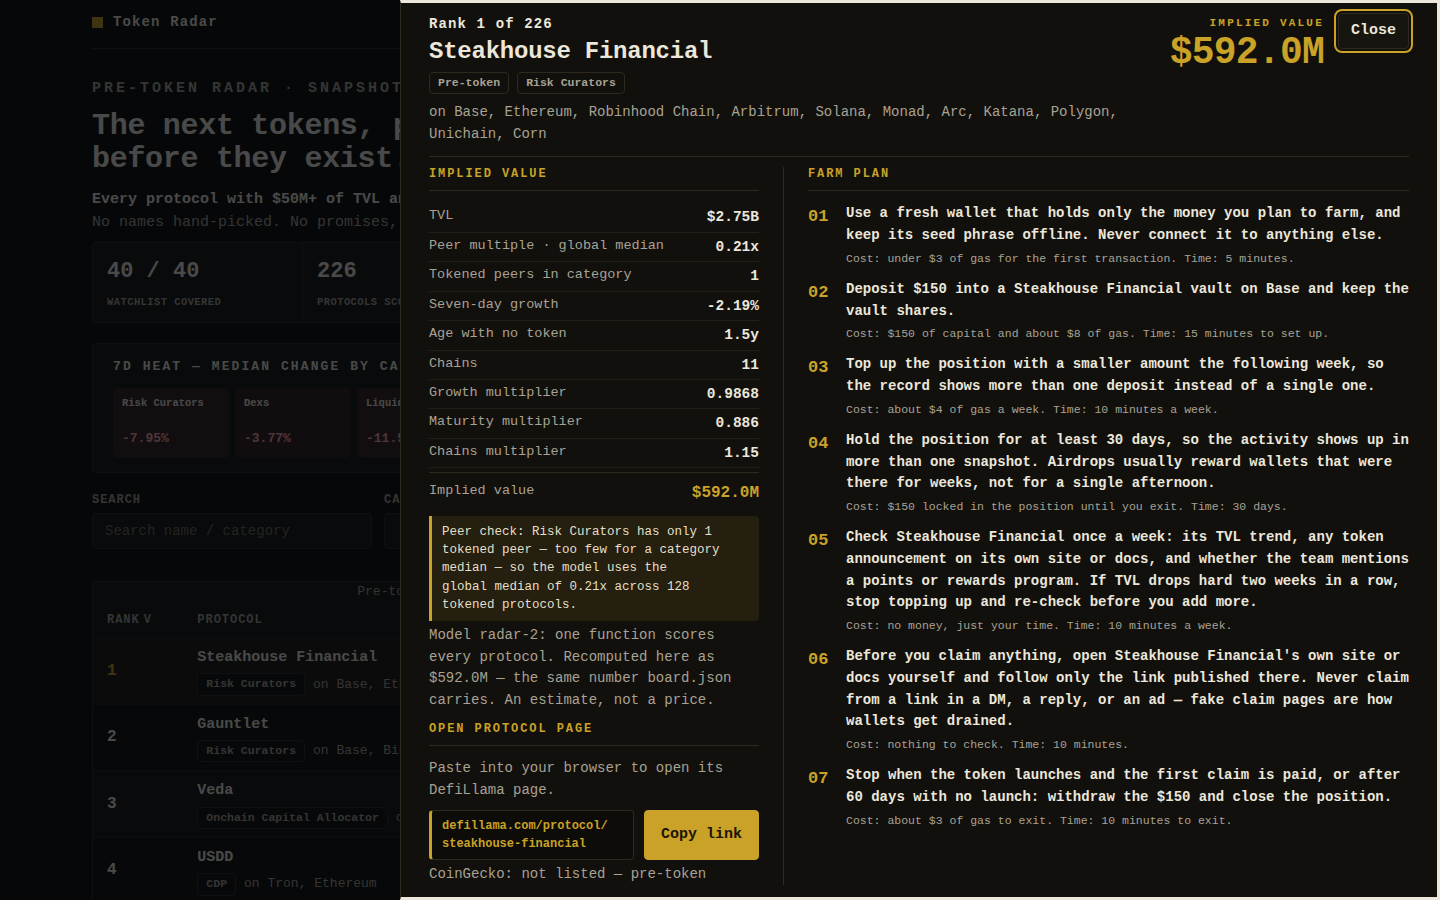
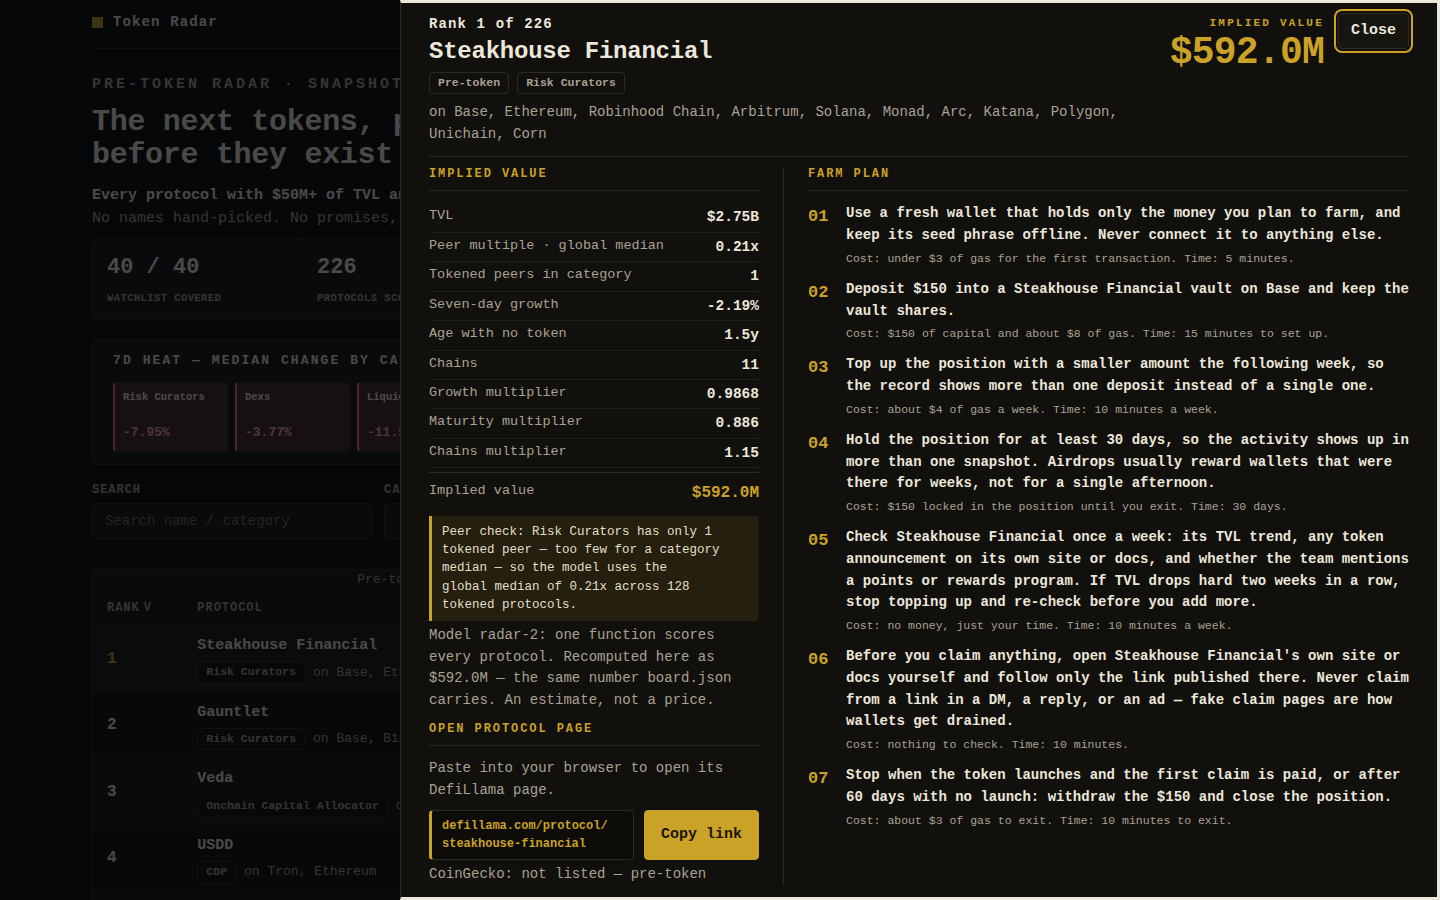
Auto-improvement round 1: heat tint reads at a glance, shot 1 fold lands on a clean row
- Heat strip: tint alpha 0.08-0.22 (was capped 0.14) + 2px direction
  edge per cell, so red/green read at a glance; light values still legible.
- Reclaimed 12px above the fold (hero 16->12px top pad, heat panel
  14->12px, controls 12->10px): row 4 (USDD) now fully in frame at
  1440x900 (measured bottom 892px vs 904px before).
- Model values, farm steps untouched; board.json byte-identical.
  Rubric after round 1: hierarchy 8, accent 9, heat 9, drawer 9,
  panels 8, framing 9, premium feel 8 — all at or above the bar, so
  the loop stops here.

diff --git a/dashboard/app.css b/dashboard/app.css
@@ -80,7 +80,7 @@ a { color: var(--accent); }
 /* HERO — the headline is the only 30px text on the board; the rank-1 number
    is the only 46px text. That gap is the hierarchy. The gold block after the
    headline is the terminal cursor. */
-.hero { display: grid; grid-template-columns: minmax(0, 1.12fr) minmax(340px, 0.88fr); gap: var(--step-6); padding: 16px 0 8px; align-items: stretch; }
+.hero { display: grid; grid-template-columns: minmax(0, 1.12fr) minmax(340px, 0.88fr); gap: var(--step-6); padding: 12px 0 8px; align-items: stretch; }
 .kicker { font-family: var(--font-mono); font-size: 11px; font-weight: 700; letter-spacing: 0.2em; text-transform: uppercase; color: var(--muted); margin-bottom: 10px; }
 .hero h1 .cursor { color: var(--accent); }
 .hero-copy p { color: var(--muted); max-width: 58ch; margin-top: 12px; font-size: 15px; }
@@ -115,10 +115,11 @@ a { color: var(--accent); }
 
 /* HEAT — median 7d change per category, top 10 by protocol count. Cells are
    equal height with the name pinned to two lines and the value pinned to the
-   bottom, so values align across the row. The tint is faint (alpha <= 0.14);
-   the value is a LIGHT green/red so it reads on the tint instead of sinking
+   bottom, so values align across the row. The tint is restrained (alpha
+   0.08–0.22) with a 2px direction edge, so the heat reads at a glance; the
+   value is a LIGHT green/red so it reads on the tint instead of sinking
    into it. Names are ink, not muted. */
-.heat-panel { margin: var(--step-5) 0 0; padding: 14px 20px; }
+.heat-panel { margin: var(--step-5) 0 0; padding: 12px 20px; }
 .heat-head { display: flex; align-items: baseline; justify-content: space-between; gap: 16px; flex-wrap: wrap; }
 .heat-head span { color: var(--muted); font-size: 12px; }
 .heat-grid { display: grid; grid-template-columns: repeat(10, 1fr); gap: 6px; margin-top: 12px; }
@@ -146,7 +147,7 @@ a { color: var(--accent); }
 .chart-median { margin-top: 10px; padding-top: 7px; border-top: 1px dotted var(--faint); display: flex; justify-content: space-between; gap: 12px; color: var(--muted); font-size: 12.5px; }
 .chart-median b { color: var(--ink); }
 
-.controls { display: flex; flex-wrap: wrap; align-items: end; gap: var(--step-3); padding: 12px 0; }
+.controls { display: flex; flex-wrap: wrap; align-items: end; gap: var(--step-3); padding: 10px 0; }
 .field { display: grid; gap: var(--step-1); }
 .field label { color: var(--muted); font-size: 12px; font-weight: 700; letter-spacing: 0.08em; text-transform: uppercase; }
 .field > span.sub { color: var(--muted); font-size: 12px; font-weight: 700; letter-spacing: 0.08em; text-transform: uppercase; }

diff --git a/dashboard/app.js b/dashboard/app.js
@@ -251,7 +251,8 @@
   }
 
   // 7D HEAT — median seven-day TVL change per category, top 10 by protocol
-  // count. The tint is faint; the value is a light green/red so it reads.
+  // count. The tint is restrained (alpha 0.08–0.22) with a 2px direction
+  // edge, so the heat reads at a glance; the value is a light green/red.
   function heatStrip() {
     var byCat = {};
     DATA.rows.forEach(function (r) {
@@ -263,10 +264,11 @@
     }).sort(function (a, b) { return b.n - a.n; }).slice(0, 10);
     if (!cats.length) return null;
     var cells = cats.map(function (c) {
-      var alpha = Math.min(0.14, 0.04 + Math.abs(c.med) / 40);
+      var alpha = Math.min(0.22, 0.08 + Math.abs(c.med) / 25);
       var bg = c.med >= 0 ? 'rgba(74,222,128,' + alpha.toFixed(2) + ')' : 'rgba(248,113,113,' + alpha.toFixed(2) + ')';
+      var edge = c.med >= 0 ? '#4ade80' : '#f87171';
       var cls = c.med >= 0 ? 'pos' : 'neg';
-      return el('div', { class: 'heat-cell', style: 'background:' + bg },
+      return el('div', { class: 'heat-cell', style: 'background:' + bg + ';border-left:2px solid ' + edge },
         el('b', { text: c.name }),
         el('span', { class: cls, text: fmtPct(c.med) })
       );
